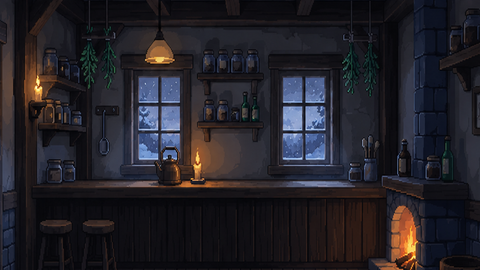
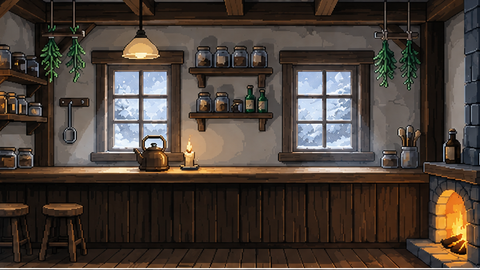
feat(art): traveler walk sprite + snow day/night backdrops
Traveler:
- 8-frame hooded-cloak walk sheet (traveler_walk.png + _1..7), sliced from
  the supplied mesh, cleaned of cross-cell bleed, scaled to a 43x52 figure
  (between Fenwick and Bram). Source faces east.
- characterSprite()/characterWalkAnim() route 'traveler' to it (loop, 8
  frames); added to MIRRORED_SOURCE_IDS so it flips toward the door on
  exit; added to the boot preload. Procedural silhouette stays as the
  pre-load fallback.

Snow backdrops:
- cafe_room_snow.png replaced with a brighter daytime render;
  cafe_room_snow_night.png added. Both cropped to matching 16:9 framing
  from the supplied day/night sheet.
- ROOM_VARIANTS += 'snow_night'. roomVariantFor keeps a day/night beat in
  winter: prep + open service -> snow; recap and winding-down service ->
  snow_night (mirrors the pre-winter dusk cue). Test updated.

tsc clean; 482 tests pass.

Claude-Session: https://claude.ai/code/session_01Uce1jDzXVLNFvWhqVhaZY2

diff --git a/src/render/images.ts b/src/render/images.ts
@@ -31,7 +31,7 @@ export function loadDrinkIcon(file: string): HTMLImageElement {
   return loadImage(assetUrl(`assets/items/${file}`));
 }
 
-/** Character walk sprite by cast id (travelers draw procedurally instead). */
+/** Character walk sprite by cast id. */
 export function characterSprite(characterId: string): HTMLImageElement | null {
   switch (characterId) {
     case 'fenwick':
@@ -44,8 +44,15 @@ export function characterSprite(characterId: string): HTMLImageElement | null {
       return loadImage(assetUrl('assets/sprites/nia_walk.png'));
     case 'wren':
       return loadImage(assetUrl('assets/sprites/wren_walk.png'));
+    case 'traveler':
+      // Frame 0 of the 8-frame hooded-cloak walk sheet (see
+      // characterWalkAnim). Source faces east (walk-in direction), so
+      // 'traveler' is in MIRRORED_SOURCE_IDS and flips on exit.
+      // drawCharacterSprite() keeps the procedural silhouette as the
+      // pre-load fallback.
+      return loadImage(assetUrl('assets/sprites/traveler_walk.png'));
     default:
-      return null; // traveler: procedural silhouette (doc 06 §3 placeholder art)
+      return null; // unknown id: procedural silhouette (doc 06 §3 placeholder art)
   }
 }
 
@@ -87,6 +94,7 @@ export function characterWalkAnim(characterId: string): WalkAnim {
   if (characterId === 'bram') return { frames: numberedWalkFrames('bram', 9), mode: 'loop' };
   if (characterId === 'nia') return { frames: numberedWalkFrames('nia', 6), mode: 'loop' };
   if (characterId === 'wren') return { frames: numberedWalkFrames('wren', 6), mode: 'loop-body' };
+  if (characterId === 'traveler') return { frames: numberedWalkFrames('traveler', 7), mode: 'loop' };
   const single = characterSprite(characterId);
   return { frames: single ? [single] : [], mode: 'loop' };
 }
@@ -210,7 +218,7 @@ export function preloadAllArt(recipeIcons?: string[]): void {
   preloadGameArt(recipeIcons);
   // M2 cast: every walk sprite + portrait warms at boot so no arrival or
   // journal open ever waits on disk mid-frame.
-  for (const id of ['sela', 'bram', 'nia', 'wren']) characterSprite(id);
+  for (const id of ['sela', 'bram', 'nia', 'wren', 'traveler']) characterSprite(id);
   for (const id of ['fenwick', 'sela', 'bram', 'nia', 'wren']) portraitSprite(id);
   loadImage(assetUrl('assets/props/sela_cart.png')); // shop-overlay DOM <img>, not canvas-drawn
   characterWalkAnim('sela'); // warm Sela's b/c walk frames

diff --git a/src/sim/day.ts b/src/sim/day.ts
@@ -16,7 +16,7 @@ export interface DayState {
 export const FINAL_DAY = 14;
 
 /** Which café backdrop to show. Time-of-day tracks the phase; winter overrides. */
-export const ROOM_VARIANTS = ['morning', 'day', 'evening', 'snow'] as const;
+export const ROOM_VARIANTS = ['morning', 'day', 'evening', 'snow', 'snow_night'] as const;
 export type RoomVariant = (typeof ROOM_VARIANTS)[number];
 
 /**
@@ -28,18 +28,23 @@ export const WINTER_FROM_DAY = 11;
 
 /**
  * Backdrop for the current day + phase. Winter (day ≥ WINTER_FROM_DAY) wins
- * over the time-of-day cycle; otherwise prep = morning, service = day,
- * recap = evening. `serviceWindingDown` (no arrivals left, nobody at the
- * counter) flips the service backdrop to evening early, so the light shifts
- * toward dusk as a "closing time" cue before the recap. The renderer
- * crossfades between whatever this returns frame to frame. Pure — unit-tested.
+ * over the time-of-day cycle but still tracks a day/night beat: prep and
+ * open service use `snow`, then the recap — and service once it is winding
+ * down — use `snow_night`. Before winter: prep = morning, service = day,
+ * recap = evening, with `serviceWindingDown` (no arrivals left, nobody at
+ * the counter) flipping the service backdrop toward dusk early as a
+ * "closing time" cue. The renderer crossfades between whatever this returns
+ * frame to frame. Pure — unit-tested.
  */
 export function roomVariantFor(
   day: number,
   phase: Phase,
   serviceWindingDown = false,
 ): RoomVariant {
-  if (day >= WINTER_FROM_DAY) return 'snow';
+  if (day >= WINTER_FROM_DAY) {
+    if (phase === 'recap') return 'snow_night';
+    return phase === 'service' && serviceWindingDown ? 'snow_night' : 'snow';
+  }
   if (phase === 'prep') return 'morning';
   if (phase === 'recap') return 'evening';
   return serviceWindingDown ? 'evening' : 'day';

diff --git a/tests/sim.test.ts b/tests/sim.test.ts
@@ -49,10 +49,14 @@ describe('roomVariantFor — backdrop by time of day + season', () => {
     expect(roomVariantFor(3, 'recap', true)).toBe('evening');
   });
 
-  it('locks to snow from WINTER_FROM_DAY onward, whatever the phase or flag', () => {
-    for (const phase of ['prep', 'service', 'recap'] as const) {
-      expect(roomVariantFor(WINTER_FROM_DAY, phase)).toBe('snow');
-      expect(roomVariantFor(14, phase, true)).toBe('snow');
-    }
+  it('uses snow backdrops from WINTER_FROM_DAY onward, with a day/night beat', () => {
+    // Open service and prep stay on the daytime snow backdrop.
+    expect(roomVariantFor(WINTER_FROM_DAY, 'prep')).toBe('snow');
+    expect(roomVariantFor(WINTER_FROM_DAY, 'service')).toBe('snow');
+    expect(roomVariantFor(14, 'prep', true)).toBe('snow');
+    // Recap, and service once winding down, shift to night.
+    expect(roomVariantFor(WINTER_FROM_DAY, 'recap')).toBe('snow_night');
+    expect(roomVariantFor(WINTER_FROM_DAY, 'service', true)).toBe('snow_night');
+    expect(roomVariantFor(14, 'recap', true)).toBe('snow_night');
   });
 });

diff --git a/src/render/scene.ts b/src/render/scene.ts
@@ -260,13 +260,14 @@ export function clearMopsHitRect(): void {
 }
 
 /**
- * Character ids whose walk sheets were mirrored at the asset level to face the
- * counter (walk-in direction, screen-right). On the way out they move toward
- * the door (screen-left), so `drawCharacterSprite` mirrors those back with a
+ * Character ids whose walk sheets face the counter (walk-in direction,
+ * screen-right) at the asset level. On the way out they move toward the
+ * door (screen-left), so `drawCharacterSprite` mirrors those back with a
  * canvas flip. Nia (near front-facing) and Wren (kept facing the door) were
- * left un-mirrored and never flip.
+ * left un-mirrored and never flip. Travelers arrive from the door facing
+ * the counter like the mirrored regulars.
  */
-const MIRRORED_SOURCE_IDS = new Set(['sela', 'fenwick', 'bram']);
+const MIRRORED_SOURCE_IDS = new Set(['sela', 'fenwick', 'bram', 'traveler']);
 
 /** Generic cast sprite draw: 2× integer scale, grounded by OPAQUE bounds.
  * `gait` carries the walk-in bob+lean (playtest fix #1); zero at rest. While
